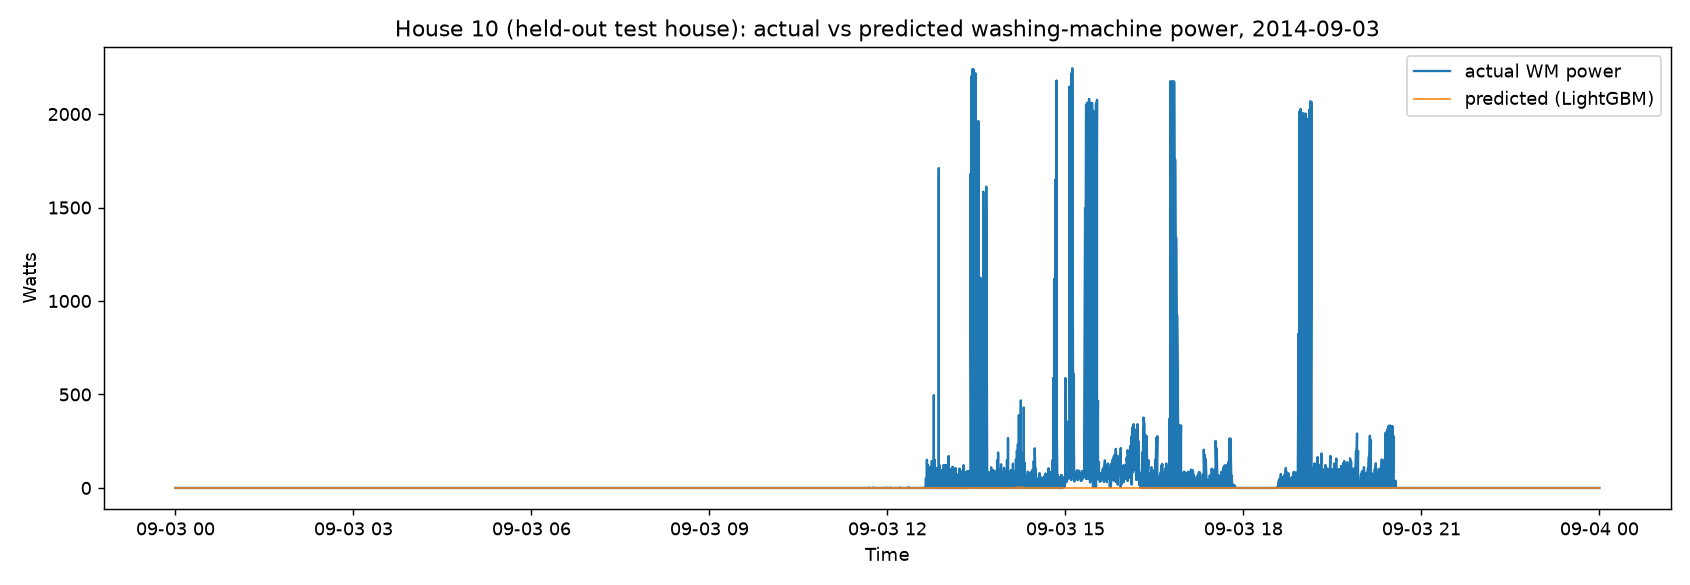
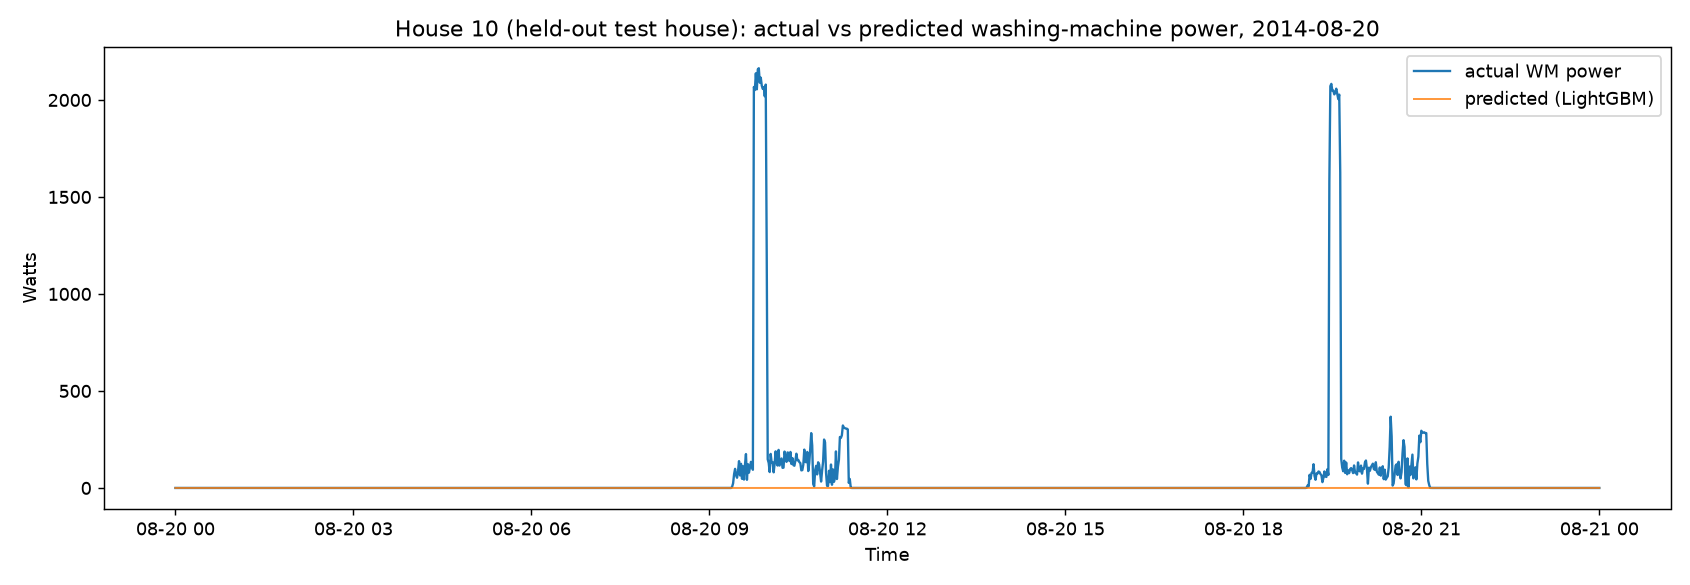
Fix duplicate-timestamp misalignment in the Experiment A actual-vs-predicted plot
test_df concatenates three test houses (10, 19, 20) whose monitoring
periods overlap in real calendar time, so its index has the same
timestamp appearing once per house. .loc[sub_idx] on that index returned
every house's row sharing a timestamp, not just h_plot's, risking
duplicated/garbled points in the figure. Reported metrics were unaffected
(model_results.csv already used boolean masks on .values). Now uses the
same boolean-mask-on-.values pattern already used safely elsewhere in
this file, applied positionally so duplicate index labels can't collide.

diff --git a/src/disaggregation_model.py b/src/disaggregation_model.py
@@ -276,17 +276,19 @@ def main():
     print(imp.head(10).to_string(index=False))
 
     # ---- plot: actual vs predicted on a representative test-house day ----
-    test_df_sorted = test_df.sort_index()
+    # Boolean-mask on .values, not .loc with timestamp labels: test_df
+    # concatenates multiple test houses whose monitoring periods overlap in
+    # real calendar time, so its index has duplicate timestamp labels across
+    # houses. .loc with such labels would return rows from every house
+    # sharing that timestamp, not just h_plot's - boolean masking is
+    # position-based and safe regardless of duplicate labels.
     h_plot = TEST_HOUSES[0]
-    hmask = test_df_sorted["house"] == h_plot
-    sub_idx = test_df_sorted.index[hmask]
-    pred_full = pd.Series(np.nan, index=test_df.index)
-    pred_full.loc[:] = test_pred
-    pred_series = pred_full.loc[sub_idx].sort_index()
-    true_series = test_df.loc[sub_idx, "target"].sort_index()
+    hmask = test_df["house"].values == h_plot
+    true_series = test_df.loc[hmask, "target"].sort_index()
+    pred_series = pd.Series(test_pred[hmask], index=test_df.index[hmask]).sort_index()
 
     active_days = true_series[true_series > 200].index.normalize().unique()
-    day = active_days[len(active_days) // 2] if len(active_days) else sub_idx[1000].normalize()
+    day = active_days[len(active_days) // 2] if len(active_days) else true_series.index[1000].normalize()
     day_end = day + pd.Timedelta(days=1)
 
     fig, ax = plt.subplots(figsize=(13, 4.5))
